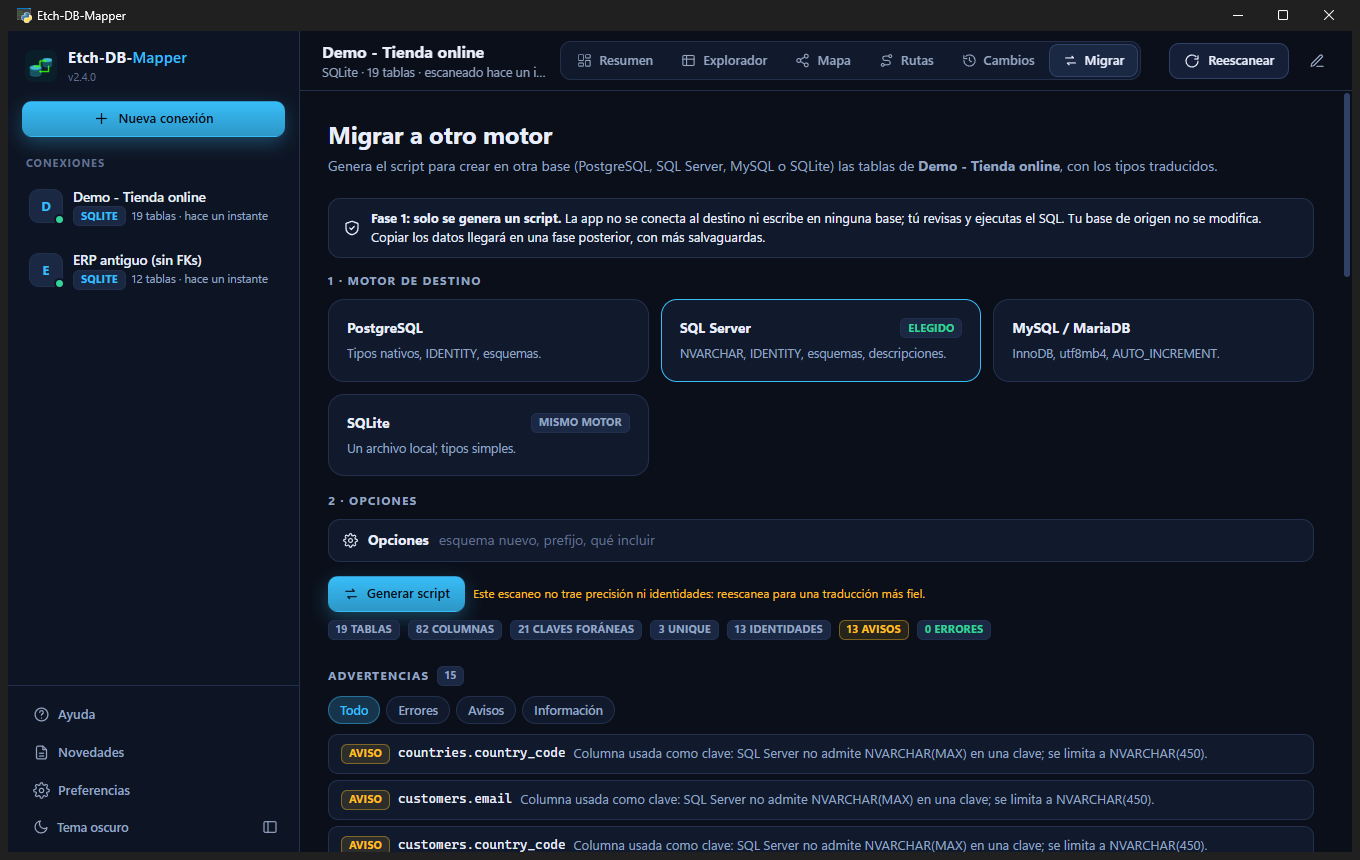
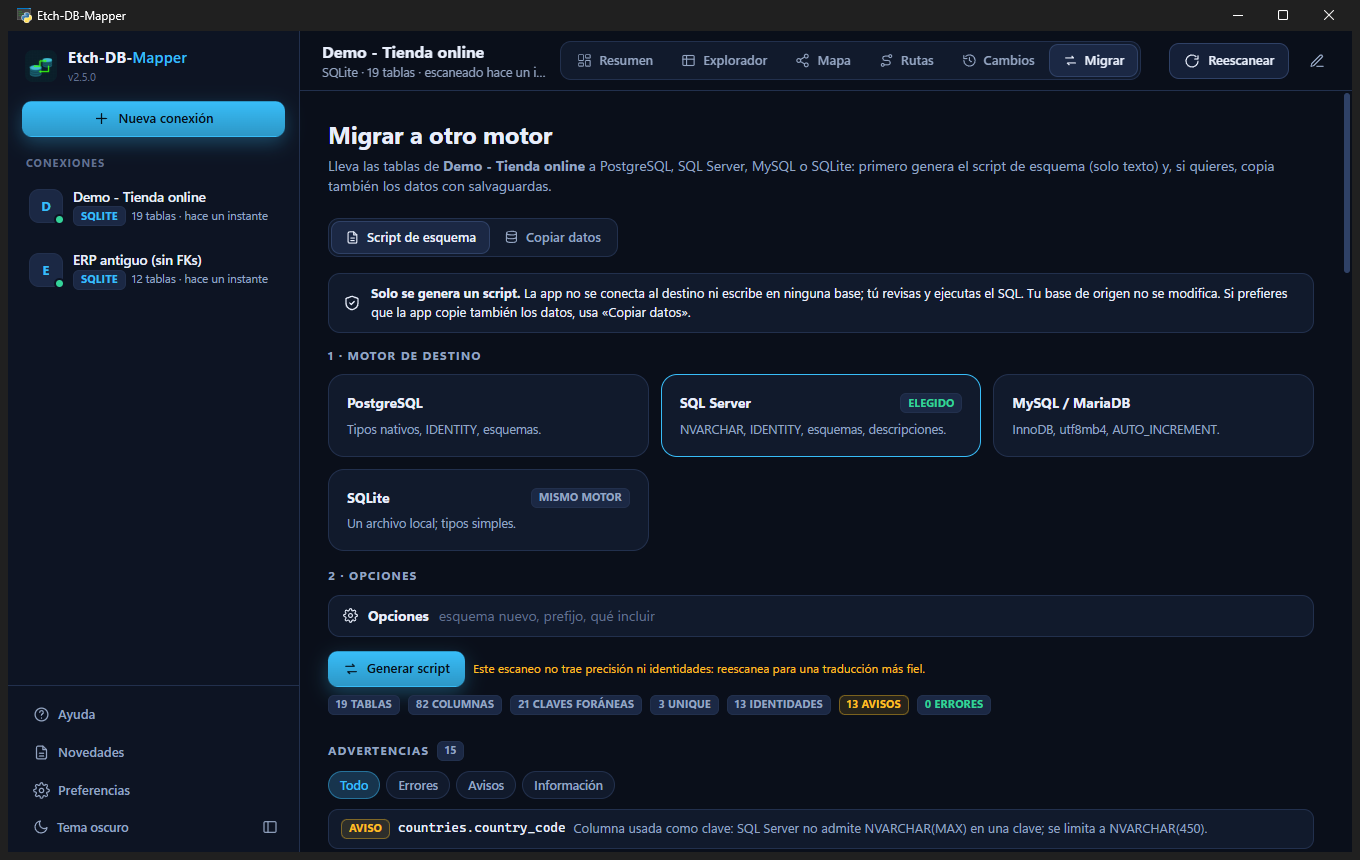
docs: document migration phase 2 and refresh screenshots
Updates README, HELP, CHANGELOG, ARCHITECTURE, BACKLOG, SECURITY and
MIGRATION_PLAN with the data copy, its safeguards and what is not yet verified
against real servers, and adds screenshots of the plan and the result.

diff --git a/HELP.md b/HELP.md
@@ -83,24 +83,38 @@ Los informes contienen **nombres de tablas y columnas, tipos, relaciones y tus n
 
 La pestaña **Rutas** responde «¿cómo uno la tabla A con la tabla B?». Elige origen y destino (o usa **Camino hasta…** en el Explorador) y verás los caminos más cortos por claves foráneas, con claves reales primero y, si quieres, también relaciones probables. Cada camino trae el **SQL del JOIN** para copiar y un botón para **resaltarlo en el mapa**. La app solo genera el texto; no ejecuta nada en tu base. Los caminos con relaciones probables llevan una advertencia en el SQL.
 
-### Migrar a otro motor (fase 1: script de esquema)
+### Migrar a otro motor
 
-La pestaña **Migrar** genera el **script SQL para crear en otra base las tablas** de la conexión actual:
+La pestaña **Migrar** lleva las tablas de la conexión actual a otro motor (PostgreSQL, SQL Server, MySQL / MariaDB o SQLite). Tiene dos modos:
 
-1. **Elige el motor de destino** (PostgreSQL, SQL Server, MySQL / MariaDB o SQLite).
-2. Ajusta las **opciones** si quieres: un **esquema nuevo** (PostgreSQL / SQL Server) o un **prefijo** para aislar lo migrado, el estilo de nombres, y qué incluir (claves foráneas, UNIQUE, identidades, valores por defecto, descripciones).
-3. Pulsa **Generar script**. Verás el resumen, las **advertencias** (errores, avisos e información), **cómo se traduce cada columna** (tipo de origen → tipo del destino) y el script, que puedes **copiar o guardar como `.sql`**.
+#### Script de esquema (solo texto)
 
-Qué tienes que saber:
+1. **Elige el motor de destino**, ajusta las **opciones** si quieres (esquema nuevo o prefijo para aislar lo migrado, estilo de nombres, qué incluir) y pulsa **Generar script**.
+2. Verás el resumen, las **advertencias**, **cómo se traduce cada columna** y el script, que puedes copiar o guardar como `.sql`.
+3. Tú lo ejecutas en una base **nueva o vacía** del destino. El script **solo crea objetos** (sin `DROP`, `TRUNCATE`, `DELETE` ni `UPDATE`, y sin `IF NOT EXISTS`: si algo ya existe, falla en vez de pisarlo).
 
-- **Solo genera texto.** La app no se conecta al destino ni escribe en ninguna base; tu base de origen no se modifica. Tú revisas y ejecutas el script.
-- El script **solo crea objetos nuevos**: no contiene `DROP`, `TRUNCATE`, `DELETE` ni `UPDATE` y no usa `IF NOT EXISTS`, así que si algo ya existe en el destino **falla en vez de pisarlo**. Úsalo en una **base nueva o vacía**; si el destino ya tiene tablas, elige un esquema nuevo o un prefijo.
-- **Revisa las advertencias** antes de ejecutarlo. Cada tipo, valor por defecto o detalle que no se puede traducir con seguridad se omite y se avisa: la app nunca adivina. Los **errores** (por ejemplo, dos tablas que quedarían con el mismo nombre) hay que corregirlos antes.
-- **No se migran** (se avisa): índices no únicos, restricciones `CHECK`, reglas `ON DELETE/ON UPDATE`, vistas, procedimientos almacenados, triggers ni los datos.
-- Para una traducción fiel conviene **reescanear** la conexión (a partir de la 2.4 el escaneo lee precisión de decimales, identidades, valores por defecto y UNIQUE).
-- **Prueba el script primero en una base desechable.** Los scripts de SQLite se verifican ejecutándolos; los de PostgreSQL, SQL Server y MySQL están revisados, pero no probados contra servidores reales.
+Cada tipo o valor por defecto que no se puede traducir con seguridad se omite y se avisa; la app nunca adivina. No se migran índices no únicos, `CHECK`, reglas `ON DELETE/ON UPDATE`, vistas, procedimientos ni triggers.
 
-Copiar los **datos** llegará en una fase posterior, con más salvaguardas (el origen en modo solo lectura impuesto por la base, destino obligatoriamente vacío, plan y simulacro previos y verificación al final). Más detalle en `docs/MIGRATION_PLAN.md` del repositorio.
+#### Copiar datos
+
+Para que la app **copie también los datos**:
+
+1. **Crea antes la conexión de la base de destino** (*Nueva conexión*): debe ser una base **nueva o vacía**.
+2. En *Migrar → Copiar datos* elige esa conexión como destino y, si el destino ya tiene otras tablas, define un **esquema nuevo** o un **prefijo** para no mezclar.
+3. Pulsa **Revisar (no escribe nada)**. La app comprueba el destino y cuenta las filas del origen. Si hay cualquier conflicto —tablas con el mismo nombre, un destino con tablas y sin esquema/prefijo, un esquema que ya existe— **se niega** y te dice por qué.
+4. Opcional pero recomendado: **Simulacro**. Lee todo el origen y comprueba que cada valor se puede convertir, **sin escribir nada**.
+5. **Copiar datos…**: te pide escribir el nombre del destino para confirmar. La copia crea las tablas, carga los datos en orden (primero las tablas padre), agrega las claves foráneas al final y **verifica los conteos**. Puedes **cancelar** en cualquier momento.
+
+Garantías y límites:
+
+- **El origen solo se lee.** En PostgreSQL (transacción de solo lectura con foto consistente), MySQL y SQLite lo impone la propia base. En SQL Server no existe ese modo de sesión: la app solo emite `SELECT` y rechaza cualquier otra sentencia; usa un login de solo lectura.
+- **En el destino solo se crea.** Nunca se borra ni se sobrescribe nada. Si una tabla falla, sus filas se revierten y la copia se detiene; las tablas ya terminadas quedan. En MySQL y SQLite el `CREATE TABLE` no se revierte: la tabla fallida queda creada pero vacía (la app te lo dice y no la borra).
+- Si algo falla, el informe indica qué tablas terminaron y por qué se detuvo. Los valores de tus datos no se escriben en el registro (`etch.log`).
+- **Si la base de origen está en uso** mientras copias, los conteos pueden no coincidir (en PostgreSQL la foto es consistente). Lo ideal es copiar desde una base sin escrituras o desde un respaldo.
+- Copiar es más lento en bases muy grandes (se lee y escribe por lotes de 1000 filas). Esta versión copia tablas completas, sin reanudar copias interrumpidas.
+- **Prueba primero con una base de destino desechable.** La copia está verificada de punta a punta con SQLite y leyendo desde un PostgreSQL real; la escritura hacia PostgreSQL, SQL Server y MySQL está cubierta por pruebas que no necesitan servidor, pero **no se ha ejecutado contra servidores reales**.
+
+Más detalle de diseño en `docs/MIGRATION_PLAN.md` del repositorio.
 
 ### Cambios
 

diff --git a/README.md b/README.md
@@ -9,7 +9,7 @@ Repo: https://github.com/Trukitro/Etch-DB-Mapper
 ## 🔒 Seguridad y privacidad (lo que tienes que saber)
 
 - **Tus contraseñas se guardan cifradas.** En Windows se cifran con **DPAPI**, ligadas a tu usuario y a tu equipo: no hay ninguna contraseña en claro en el disco, y copiar el archivo a otra PC no las revela. Las conexiones guardadas con versiones anteriores se cifran solas al actualizar.
-- **Solo lectura de metadatos.** La app consulta el catálogo del motor (tablas, columnas, claves); nunca lee ni modifica el contenido de tus tablas.
+- **Solo lectura.** Para mapear, la app consulta únicamente el catálogo del motor (tablas, columnas, claves); no lee el contenido de tus tablas. **Solo si usas «Copiar datos»** lee las filas del origen —siempre en modo solo lectura— y escribe en un destino nuevo o vacío que tú eliges; nunca modifica el origen.
 - **Cero telemetría.** No envía tus datos, tus URI ni tus esquemas a ningún servidor. Todo vive en tu carpeta de datos.
 - **Aviso de versión nueva, opcional y transparente.** Una consulta pública a GitHub, como máximo una vez al día, sin datos tuyos y sin instalar nada solo. Se apaga en *Preferencias* o con `ETCH_NO_UPDATE_CHECK=1`.
 - **Sin secretos en los registros ni en los errores**, y una interfaz que no ejecuta código remoto.
@@ -25,7 +25,9 @@ Detalle completo —incluido lo que el cifrado **no** puede proteger— en [`SEC
 - **Cambios entre escaneos**: cada vez que el esquema cambia se guarda una versión; compáralas y ve qué tablas, columnas y relaciones se agregaron, quitaron o modificaron (con resumen copiable en Markdown).
 - **Diccionario de datos**: documenta tus tablas y columnas con notas, etiquetas y responsables (se guardan en tu equipo y sobreviven a los reescaneos). La app también lee las **descripciones que la base ya tiene** (`COMMENT ON`, `MS_Description`, `COMMENT=`). Exporta a **Markdown**, **Excel (CSV)** o a un **informe HTML interactivo de un solo archivo**, con el mapa incluido, para compartir sin que el otro instale nada.
 - **Rutas entre tablas**: «¿cómo uno `Pedidos` con `Conductores`?». Encuentra los caminos por claves foráneas (y relaciones probables) y genera el **SQL del JOIN** listo para copiar, para SQL Server, PostgreSQL, MySQL y SQLite. Solo genera texto: no ejecuta nada.
-- **Migrar a otro motor (fase 1)**: genera el **script SQL de creación de tablas** para PostgreSQL, SQL Server, MySQL o SQLite a partir de lo que escaneaste: tipos traducidos, claves primarias y foráneas, UNIQUE, identidades, valores por defecto y descripciones, con un informe de advertencias. **Solo genera texto**: no se conecta al destino ni escribe en ninguna base, y el script solo crea objetos nuevos (sin `DROP`, `TRUNCATE`, `DELETE` ni `UPDATE`). Copiar los datos llegará después, con salvaguardas (ver [`docs/MIGRATION_PLAN.md`](docs/MIGRATION_PLAN.md)).
+- **Migrar a otro motor**:
+  - **Script de esquema:** genera el SQL de creación de tablas para PostgreSQL, SQL Server, MySQL o SQLite (tipos traducidos, claves primarias y foráneas, UNIQUE, identidades, valores por defecto y descripciones) con un informe de advertencias. Solo genera texto: no se conecta al destino.
+  - **Copiar datos:** copia los datos a otra base **nueva o vacía**, con el **origen en solo lectura** (impuesto por la propia base en PostgreSQL, MySQL y SQLite), un plan previo que no escribe nada, un simulacro, confirmación escribiendo el nombre del destino, todo o nada por tabla y verificación de conteos. **Nada se borra ni se sobrescribe**, y si el destino tiene cualquier conflicto, se niega. Detalle en [`docs/MIGRATION_PLAN.md`](docs/MIGRATION_PLAN.md).
 - **Explorador** con búsqueda por tabla, columna o nota, filtros (incluido *Sin documentar*), insignias PK/FK y copia de DDL aproximado.
 - **Ayuda y Novedades** dentro de la app, pensadas para usuarios nuevos. Tema oscuro / claro / del sistema, atajos de teclado, 100 % offline.
 
@@ -38,6 +40,7 @@ Detalle completo —incluido lo que el cifrado **no** puede proteger— en [`SEC
 | ![Documentación](docs/images/11-documentacion.png) **Diccionario de datos**: notas, etiquetas y responsable | ![Rutas](docs/images/12-rutas.png) **Rutas entre tablas** con el SQL del JOIN |
 | ![Informe HTML](docs/images/13-informe-html.png) **Informe HTML** interactivo de un solo archivo | ![Preferencias y seguridad](docs/images/09-preferencias.png) **Preferencias**: contraseñas cifradas y actualizaciones |
 | ![Migración](docs/images/14-migracion.png) **Migrar a otro motor**: opciones, advertencias y tipos | ![Script de migración](docs/images/15-migracion-script.png) **Script SQL** generado para SQL Server |
+| ![Plan de copia](docs/images/16-copia-plan.png) **Copiar datos**: plan previo sin escribir nada | ![Resultado de la copia](docs/images/17-copia-resultado.png) **Copia verificada** tabla por tabla |
 | ![Explorador](docs/images/03-explorador.png) **Explorador de tablas** | |
 
 ## Instalación
@@ -76,7 +79,8 @@ core/
   inference.py        Relaciones probables por nombre
   joins.py            Caminos entre tablas y generador de JOIN
   docs_export.py      Diccionario de datos: Markdown, CSV e informe HTML
-  migrate.py          Migración fase 1: script de esquema para otro motor
+  migrate.py          Migración: script de esquema para otro motor
+  copy_engine.py      Migración: copia de datos (origen solo lectura, destino vacío)
   diff.py             Comparación de dos versiones del esquema
   updates.py          Aviso de versión nueva (opcional)
   logs.py             Registro sin contraseñas

diff --git a/docs/ARCHITECTURE.md b/docs/ARCHITECTURE.md
@@ -16,7 +16,8 @@ Aplicación de escritorio en dos capas que se hablan por un puente de pywebview:
 │   ├─ core/storage.py   Store: db_maps.json + settings.json + snapshots/ (atómico, id estable)
 │   ├─ core/inference.py Relaciones probables por nombre · core/diff.py Comparación de versiones
 │   ├─ core/joins.py     Caminos entre tablas + SQL de JOIN · core/docs_export.py Diccionario: MD/CSV/HTML
-│   ├─ core/migrate.py   Migración fase 1: DDL para otro motor (mapa de tipos, advertencias)
+│   ├─ core/migrate.py   Migración: DDL para otro motor (mapa de tipos, advertencias)
+│   ├─ core/copy_engine.py Migración: copia de datos (origen solo lectura, destino vacío, plan/simulacro/verificación)
 │   ├─ core/updates.py   Aviso de versión nueva (opcional) · core/logs.py Registro sin contraseñas      │
 │   ├─ core/scanner.py   run_db_scan(uri, progress) → esquema + meta  (pyDAL)               │
 │   └─ core/demo.py, core/paths.py, core/version.py                                         │
@@ -59,6 +60,8 @@ Cada método público de `Api` es invocable desde JS (`Etch.api.metodo(...)` dev
 | `save_annotation(alias, tabla, columna, campos)` | Nota/etiquetas/responsable de una tabla o nota de una columna (se guarda en `annotations/`) |
 | `find_paths(alias, origen, destino, incluir_probables)` | Caminos entre dos tablas + SQL del JOIN |
 | `list_migration_targets()`, `plan_migration(alias, destino, opciones)` | Migración fase 1: genera el script de esquema para otro motor (solo texto; no se conecta a ningún destino) |
+| `preflight_copy(origen, destino, opciones)` | Revisa una copia de datos SIN escribir: script, estado del destino, filas por tabla; devuelve un `token` |
+| `start_copy(token, confirmación, simulacro)`, `cancel_copy()` | Inicia (o simula) la copia en un hilo; eventos `copy_started`, `copy_progress`, `copy_finished` |
 | `export_docs(alias, formato)` | Diccionario de datos: `markdown`, `csv` o `html` (informe con mapa) |
 | `security_status()` | Estado del cifrado de contraseñas |
 | `check_updates(force)` | Consulta (opcional) la última versión en GitHub |
@@ -126,6 +129,12 @@ Cada escaneo exitoso llama a `Store.add_snapshot()`: guarda el esquema en forma 
 `core/migrate.py::generate_ddl(tables, motor_origen, destino, opciones, descriptions)` convierte el esquema normalizado en un script: `parse_type()` lleva cada tipo de origen a una categoría común (`int`, `decimal`, `varchar`, `datetimetz`, `rowversion`…) y `render_type()` la escribe para el destino con sus advertencias; `translate_default()` solo traduce los valores por defecto que reconoce (nunca adivina). El resultado trae el SQL, la lista de advertencias (`error`/`warn`/`info`), estadísticas y el mapa columna a columna. Las claves foráneas se emiten al final con `ALTER TABLE` (en SQLite van dentro de `CREATE TABLE`). Las columnas usadas como clave se acotan para SQL Server/MySQL.
 
 Para que la traducción sea fiel, el escaneo lee metadatos extra con consultas opcionales (`scanner._column_extras`: valor por defecto, identidad, precisión; `scanner._uniques`). El esquema guardado ahora puede traer por columna `identity`, `default` y `prec`, y por tabla `uniques`; los esquemas guardados por versiones anteriores siguen funcionando (esos campos valen vacío/falso). Esos campos **no** entran en la comparación de versiones (`compact_schema`), para no marcar cambios falsos tras actualizar. Plan completo y reglas de seguridad de las fases siguientes: [`MIGRATION_PLAN.md`](MIGRATION_PLAN.md).
+
+## Copia de datos (migración, fase 2)
+
+`core/copy_engine.py` ejecuta lo que `generate_ddl()` planificó (`statements`, `order`, mapa de columnas). Piezas: `SourceReader` (conexión de **solo lectura**: PostgreSQL `REPEATABLE READ READ ONLY`, MySQL `SESSION TRANSACTION READ ONLY`, SQLite `PRAGMA query_only`; en SQL Server una guardia que solo admite `SELECT`), `TargetWriter` (inserciones por lotes con el estilo de parámetros del driver), `target_blockers()` (comprueba el destino: vacío o sin colisiones, esquema nuevo inexistente), `make_converter()` (valores del origen → formato del destino según el tipo) y `run_copy()` (crea y carga tabla por tabla en una transacción, ajusta identidades, agrega FK y descripciones al final y verifica conteos).
+
+`Api.preflight_copy()` guarda el plan revisado bajo un `token` en memoria (30 minutos, y solo con un hash de ambas URI, nunca guarda credenciales). `start_copy()` vuelve a comprobar que las conexiones no cambiaron y que el destino sigue limpio, exige escribir el nombre del destino para copiar de verdad y lanza el hilo; el progreso viaja por eventos. Una sola copia a la vez. Los valores de las tablas nunca llegan al registro. Reglas completas: [`MIGRATION_PLAN.md`](MIGRATION_PLAN.md).
 
 ## Relaciones probables
 

diff --git a/SECURITY.md b/SECURITY.md
@@ -36,7 +36,13 @@ Solo el catálogo del motor (`INFORMATION_SCHEMA`, `sys.*`, `pragma_*` de SQLite
 
 ## Migración entre motores
 
-La **fase 1** (2.4.0) solo **genera un script SQL**: no abre ninguna conexión al destino y no escribe en ninguna base. El script contiene únicamente sentencias que crean objetos nuevos (sin `DROP`, `TRUNCATE`, `DELETE`, `UPDATE` ni `IF NOT EXISTS`), de modo que ejecutarlo contra una base que ya tiene esas tablas falla en lugar de pisarlas. Lo ejecutas tú, donde y cuando decidas. La copia de datos (fase 2) todavía no existe; cuando llegue cambiará la promesa de «solo metadatos» y vendrá con las reglas descritas en [`docs/MIGRATION_PLAN.md`](docs/MIGRATION_PLAN.md): origen en solo lectura impuesto por la propia base, destino obligatoriamente vacío, plan y simulacro previos.
+### Copiar datos (2.5.0)
+
+Es la **única función que lee filas de tus tablas y escribe en una base**, y por eso es explícita y opcional. Salvaguardas: el origen se abre en **solo lectura** (impuesto por la propia base en PostgreSQL, MySQL y SQLite; en SQL Server la app solo emite `SELECT` y rechaza todo lo demás, así que usa un login de solo lectura); el destino debe estar **vacío** o usar un esquema/prefijo sin colisiones y se **vuelve a comprobar justo antes de escribir**; **nunca se borra ni se sobrescribe** (solo `CREATE TABLE` e `INSERT`); la copia real exige **escribir el nombre del destino**; hay plan previo y simulacro que no escriben; los valores de las tablas **no se registran** (solo nombres y conteos). Los datos viajan directamente de tu base de origen a tu base de destino a través de tu equipo; no pasan por ningún servicio externo.
+
+### Solo script (2.4.0)
+
+La generación del script de esquema solo **genera un script SQL**: no abre ninguna conexión al destino y no escribe en ninguna base. El script contiene únicamente sentencias que crean objetos nuevos (sin `DROP`, `TRUNCATE`, `DELETE`, `UPDATE` ni `IF NOT EXISTS`), de modo que ejecutarlo contra una base que ya tiene esas tablas falla en lugar de pisarlas. Lo ejecutas tú, donde y cuando decidas. La copia de datos (fase 2) todavía no existe; cuando llegue cambiará la promesa de «solo metadatos» y vendrá con las reglas descritas en [`docs/MIGRATION_PLAN.md`](docs/MIGRATION_PLAN.md): origen en solo lectura impuesto por la propia base, destino obligatoriamente vacío, plan y simulacro previos.
 
 ## Notas e informes exportados
 

diff --git a/CHANGELOG.md b/CHANGELOG.md
@@ -2,6 +2,24 @@
 
 Historial de cambios de Etch-DB-Mapper. El formato sigue [Keep a Changelog](https://keepachangelog.com/es-ES/1.1.0/) y las versiones siguen [SemVer](https://semver.org/lang/es/).
 
+## [2.5.0] - 2026-10-22
+
+### Nuevo
+- **Migrar → Copiar datos** (fase 2 de la migración entre motores): copia los datos a otra base **nueva o vacía** (PostgreSQL, SQL Server, MySQL o SQLite) con las salvaguardas acordadas:
+  - el **origen es de solo lectura** (lo impone la base en PostgreSQL —con foto consistente—, MySQL y SQLite; en SQL Server la app solo emite `SELECT`);
+  - el **destino debe estar vacío** o, si no, usar un esquema/prefijo nuevo sin colisiones; ante cualquier conflicto la app **se niega**, y lo vuelve a comprobar justo antes de escribir;
+  - **nunca se borra ni se sobrescribe** nada: solo `CREATE TABLE` y `INSERT`;
+  - **plan previo** que no escribe, **simulacro** (lee y convierte todo sin escribir), confirmación escribiendo el nombre del destino, **todo o nada por tabla**, **cancelar** y **verificación** de conteos al final;
+  - claves foráneas al final, identidades y secuencias ajustadas, conversión de tipos (booleanos, fechas con zona, JSON, binarios, decimales).
+- La **base de ejemplo** ahora trae filas de muestra.
+
+### Corregido
+- Los nombres con mayúsculas (por ejemplo `Prueba`) ahora llevan comillas en PostgreSQL al generar el SQL de los JOIN de la pestaña Rutas; antes el SQL fallaba porque PostgreSQL pliega a minúsculas lo que no lleva comillas. También se citan las palabras reservadas.
+- Los mensajes de error de PostgreSQL ya no se reducen a un «^» (se ignoran las líneas de contexto).
+
+### Seguridad
+- La copia **no registra valores** de tus tablas (solo nombres y conteos). Las contraseñas de origen y destino se cifran igual que las demás conexiones.
+
 ## [2.4.0] - 2026-10-22
 
 ### Nuevo

diff --git a/docs/BACKLOG.md b/docs/BACKLOG.md
@@ -189,3 +189,15 @@ vaya trabajando.
 - [ ] Elegir qué tablas migrar desde la interfaz (la API ya admite `only`).
 - [ ] Informe de compatibilidad de vistas, procedimientos y triggers («revisar a mano»).
 - [ ] Mapa de tipos editable por el usuario.
+
+### 2.5.0 — migración, fase 2
+- [x] Copiar datos a un destino vacío con origen en solo lectura, plan, simulacro, confirmación, cancelación y verificación de conteos (`core/copy_engine.py`).
+- [x] Datos de muestra en la base de ejemplo.
+- [x] Corregidas las comillas de PostgreSQL en el SQL de los JOIN.
+
+### Migración — pendientes tras la fase 2
+- [ ] **Probar la escritura** hacia PostgreSQL, SQL Server y MySQL y la lectura de SQL Server/MySQL contra servidores reales desechables.
+- [ ] Reanudar una copia interrumpida y elegir qué tablas copiar desde la interfaz.
+- [ ] Verificación con sumas de control además de los conteos.
+- [ ] Copiar más rápido en bases grandes (`COPY` en PostgreSQL, `fast_executemany` en SQL Server).
+- [ ] Informe de filas rechazadas en lugar de detener la copia en el primer error (modo opcional).
